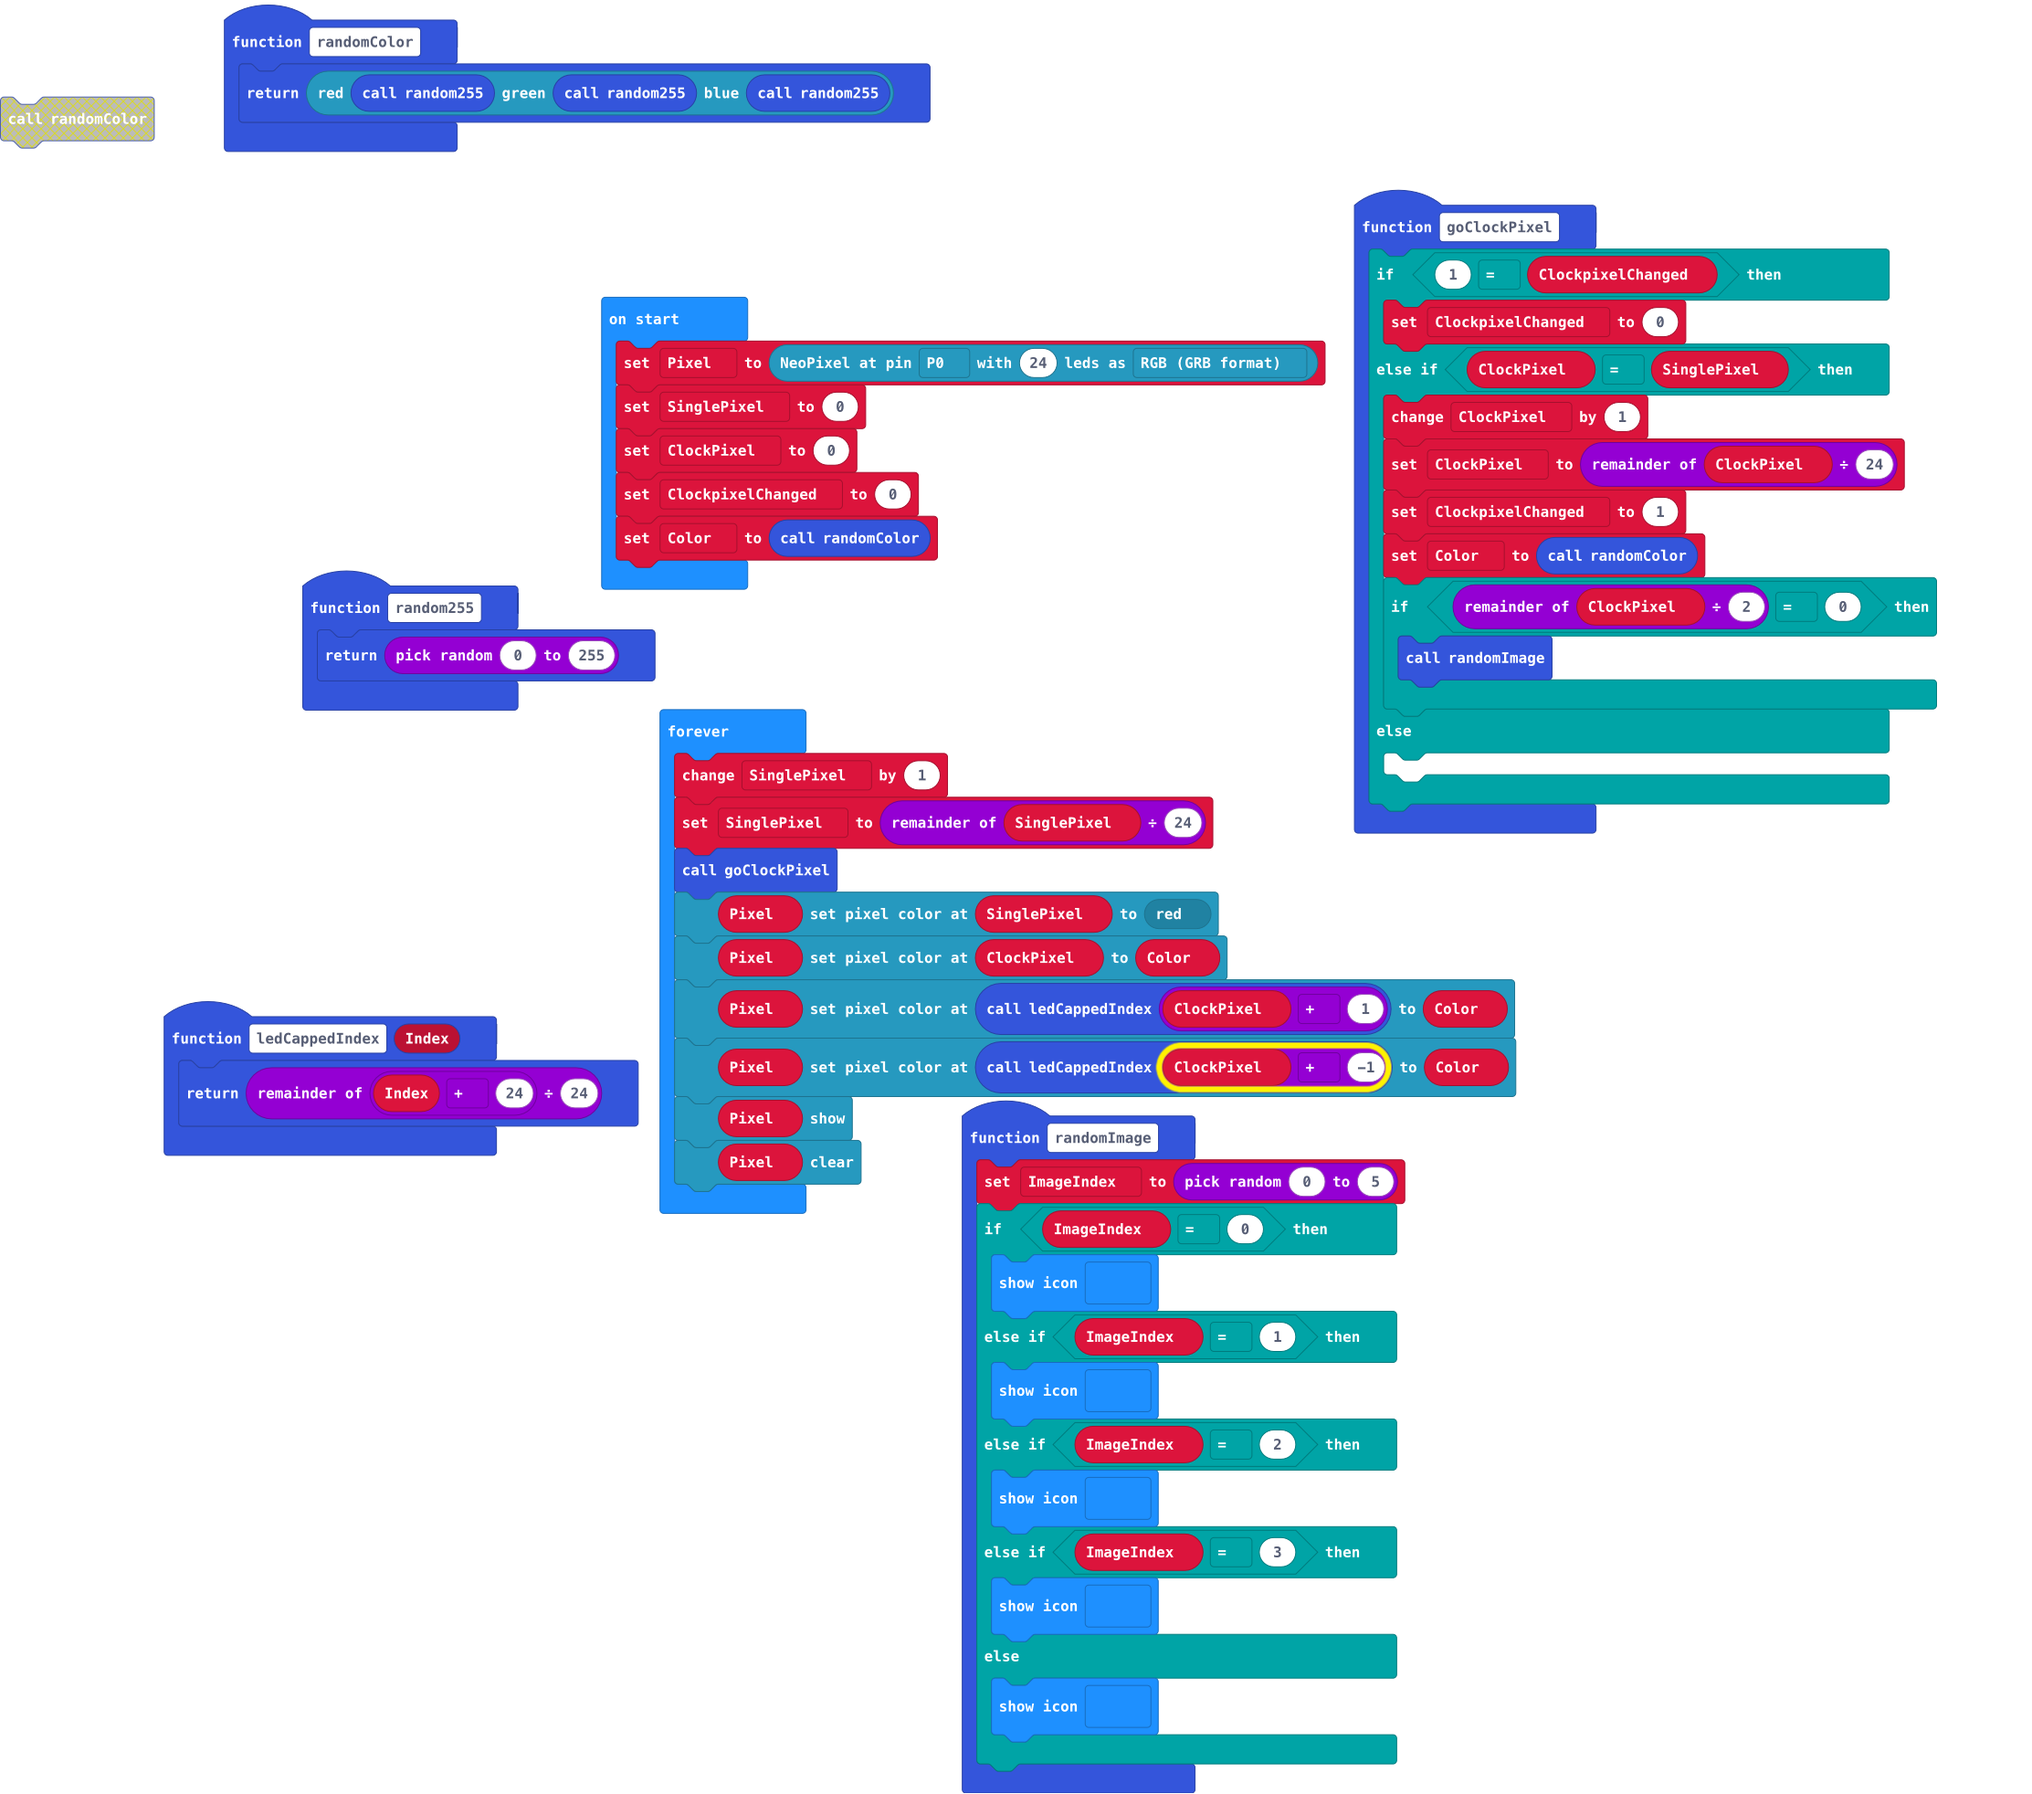
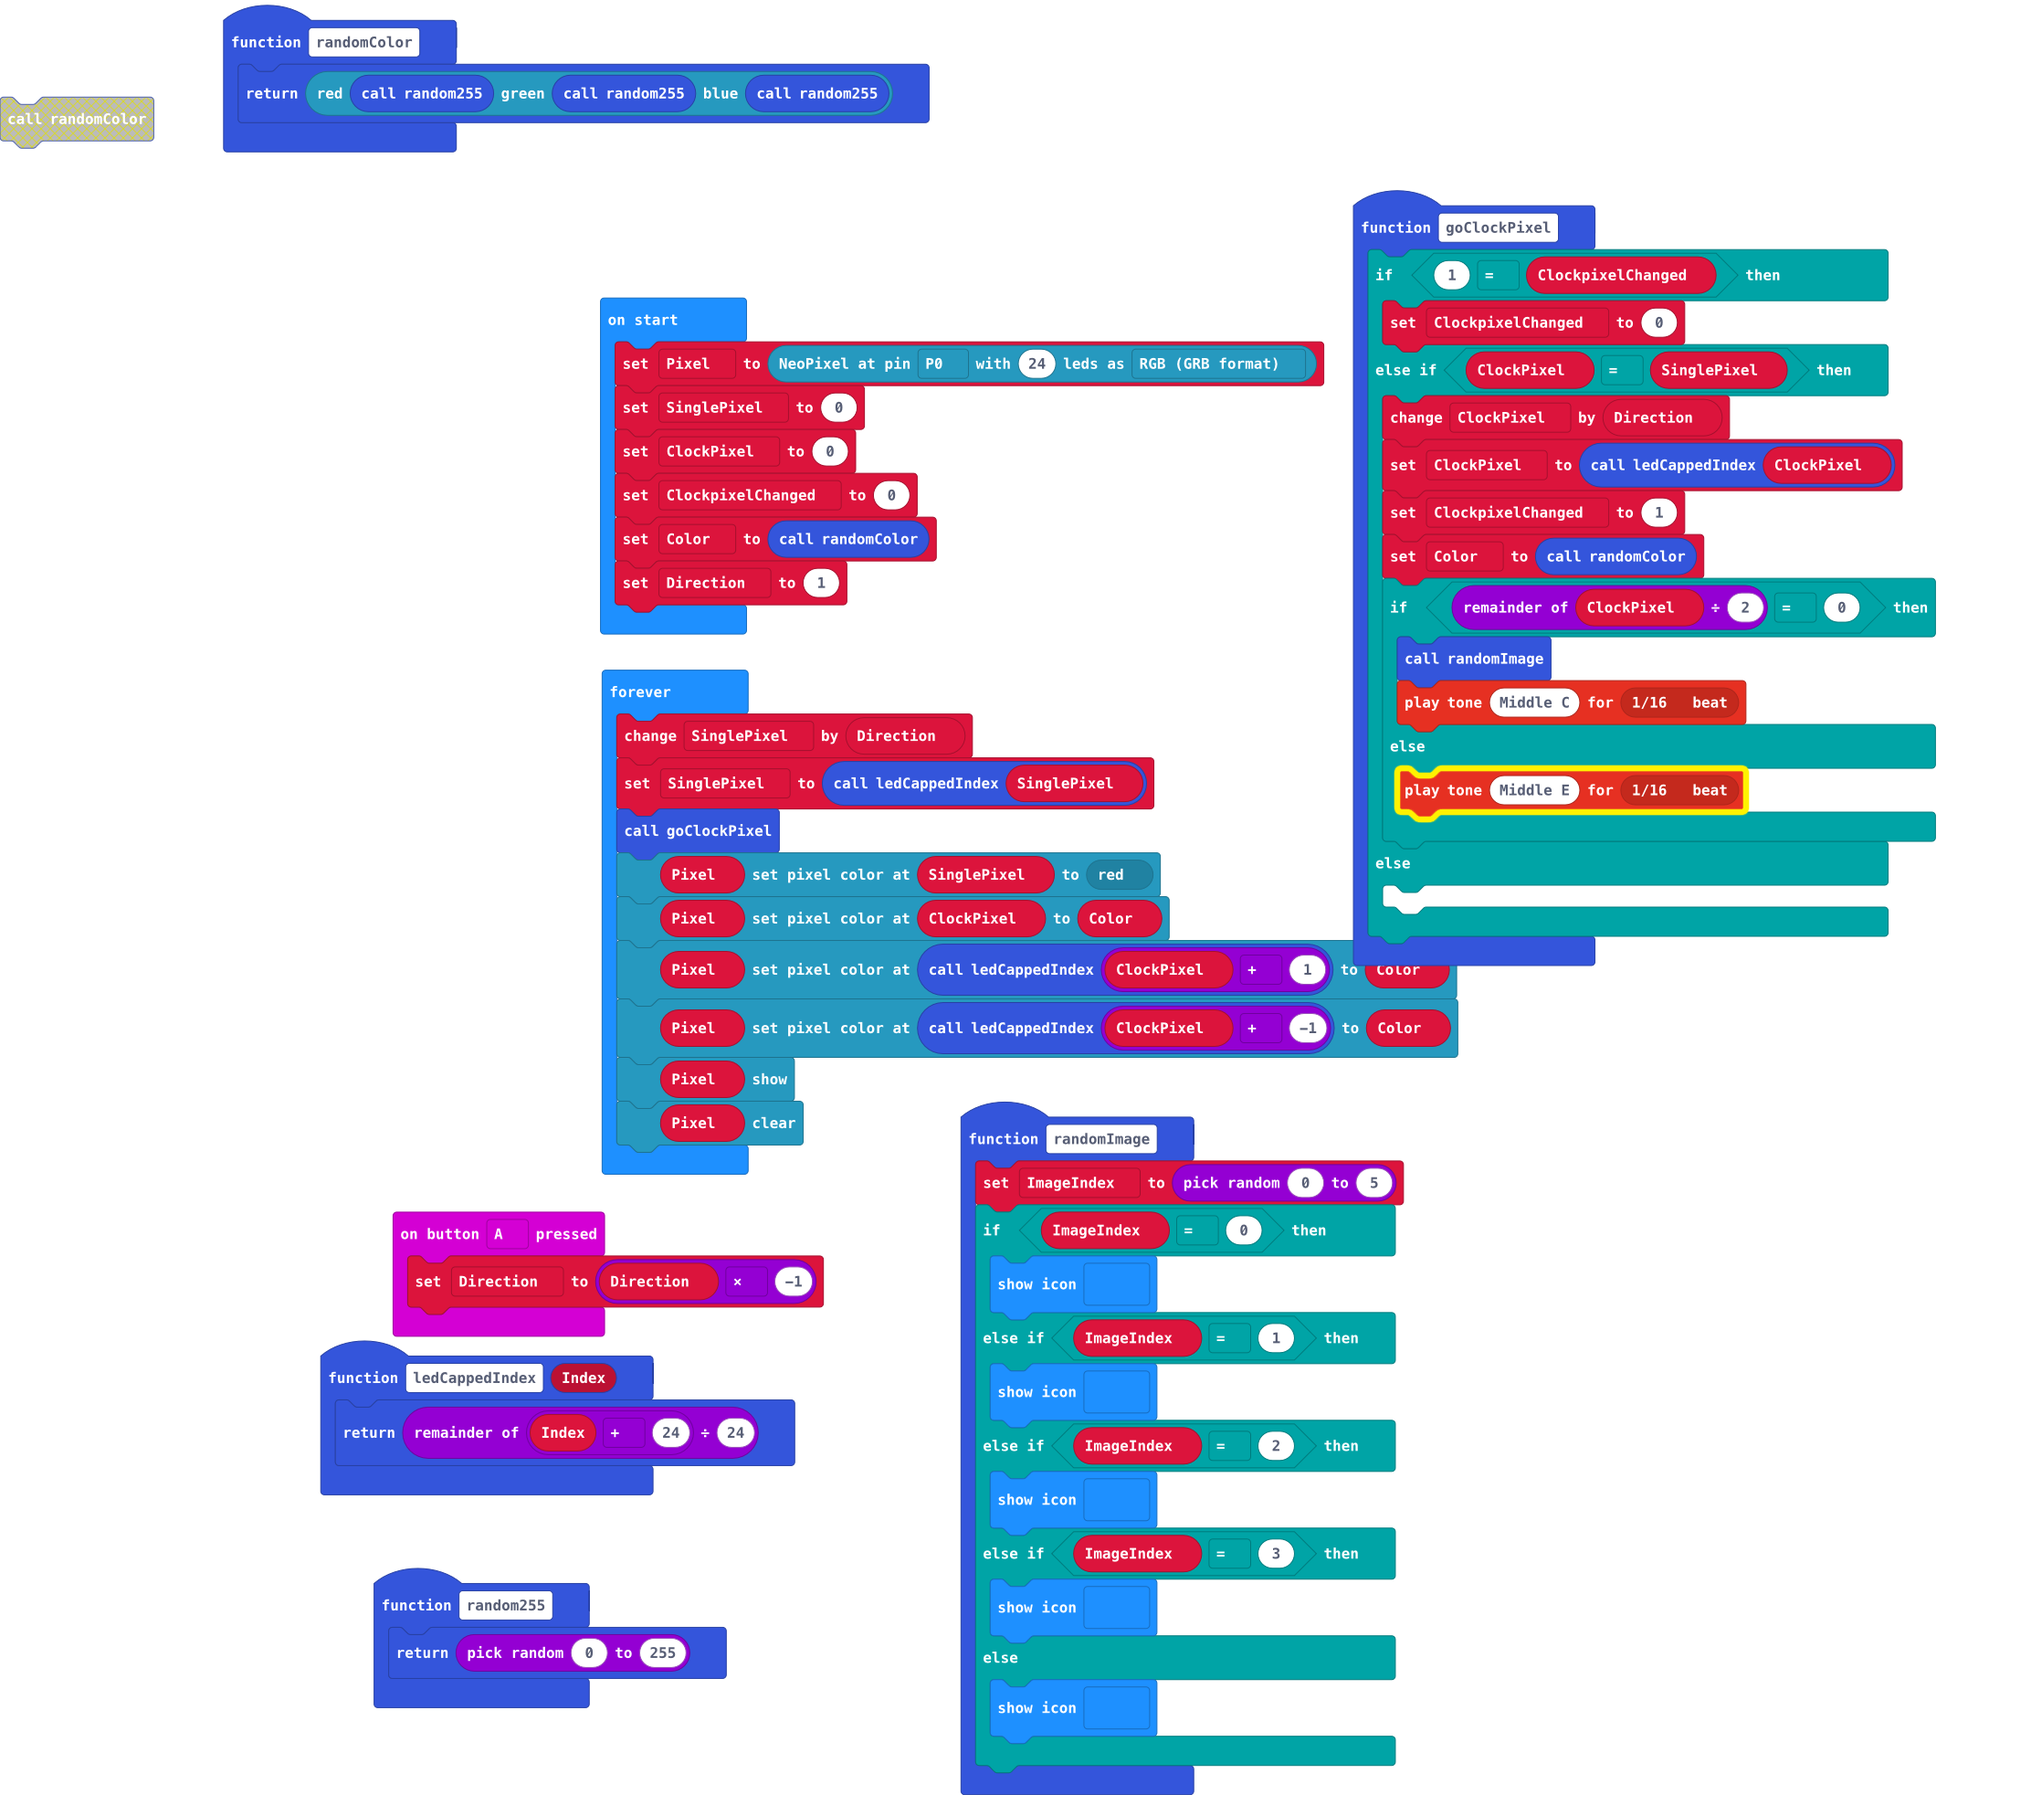
Update main.blocks, main.ts

diff --git a/main.ts b/main.ts
@@ -16,17 +16,23 @@ function goClockPixel () {
     if (1 == ClockpixelChanged) {
         ClockpixelChanged = 0
     } else if (ClockPixel == SinglePixel) {
-        ClockPixel += 1
-        ClockPixel = ClockPixel % 24
+        ClockPixel += Direction2
+        ClockPixel = ledCappedIndex(ClockPixel)
         ClockpixelChanged = 1
         Color = randomColor()
         if (ClockPixel % 2 == 0) {
             randomImage()
+            music.playTone(262, music.beat(BeatFraction.Sixteenth))
+        } else {
+            music.playTone(330, music.beat(BeatFraction.Sixteenth))
         }
     } else {
     	
     }
 }
+input.onButtonPressed(Button.A, function () {
+    Direction2 = Direction2 * -1
+})
 function ledCappedIndex (Index: number) {
     return (Index + 24) % 24
 }
@@ -37,6 +43,7 @@ function random255 () {
     return randint(0, 255)
 }
 let ImageIndex = 0
+let Direction2 = 0
 let Color = 0
 let ClockpixelChanged = 0
 let ClockPixel = 0
@@ -46,9 +53,10 @@ SinglePixel = 0
 ClockPixel = 0
 ClockpixelChanged = 0
 Color = randomColor()
+Direction2 = 1
 basic.forever(function () {
-    SinglePixel += 1
-    SinglePixel = SinglePixel % 24
+    SinglePixel += Direction2
+    SinglePixel = ledCappedIndex(SinglePixel)
     goClockPixel()
     Pixel.setPixelColor(SinglePixel, neopixel.colors(NeoPixelColors.Red))
     Pixel.setPixelColor(ClockPixel, Color)
